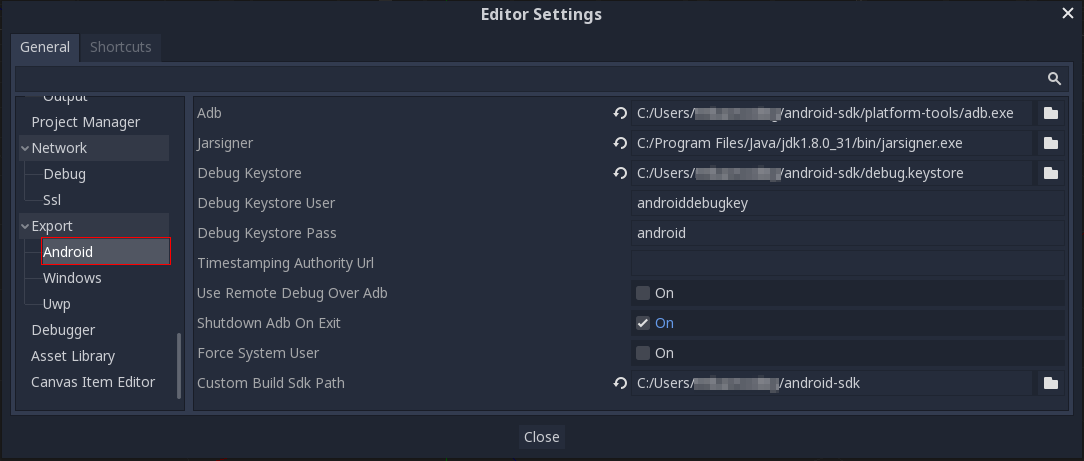
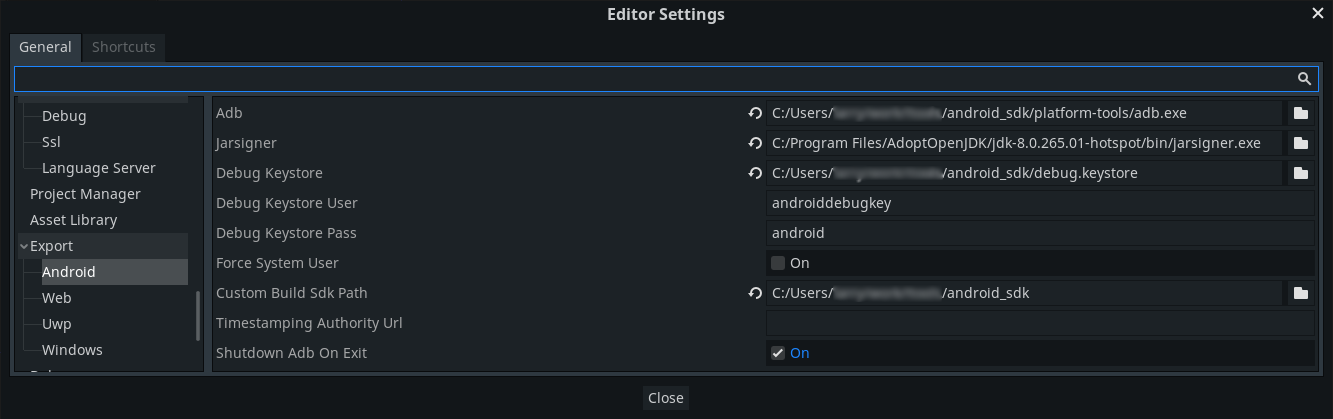
Update and simplify android custom build instructions (#4001)
* fix instructions for .gdignore file in android folder

* add instructiond for JAVA_HOME variable on Windows

* simplify sdk installation and add warning for windows zip extraction

* fix command to navigate to andorid_sdk path

* update android editor settings screenshot for new Jarsigner path

* remove obsolete instructions for .gdignore file

diff --git a/getting_started/workflow/export/android_custom_build.rst b/getting_started/workflow/export/android_custom_build.rst
@@ -28,9 +28,8 @@ Go to the Project menu, and install the *Custom Build* template:
 Make sure export templates are downloaded. If not, this menu will help you
 download them.
 
-This will create an Gradle-based Android project in ``res://android/build`` and
-place a ``.gdignore`` file in ``res://android`` so the Godot filesystem ignores
-this folder. Editing these files is not needed unless you want to :ref:`create
+A Gradle-based Android project will be created under ``res://android/build``.
+Editing these files is not needed unless you want to :ref:`create
 your own add-ons<doc_android_plugin>`, or you really need to modify the project.
 
 Install the Android SDK (command-line version)
@@ -50,6 +49,10 @@ You need to install a Java SDK (**not** just the runtime or JRE).
 `OpenJDK 8 <https://adoptopenjdk.net/index.html>`__ is required, newer
 versions won't work.
 
+On Windows, make sure that you enable "Set ``JAVA_HOME`` variable" in the *Custom Setup* view
+of the installer. You have to restart Godot after this, otherwise Godot can't
+find the ``JAVA_HOME`` variable.
+
 Download the command-line tools
 ^^^^^^^^^^^^^^^^^^^^^^^^^^^^^^^
 
@@ -62,12 +65,8 @@ To save disk space, you don't want the full IDE, so don't download it.
     doing the same using Android Studio.
 
 Look on that page for the *Command line tools only* section. Currently, they are listed under
-*Download Options*. Scroll down a bit until you see them.
-
-Download the ZIP file for your platform, there will be a single ``tools``
-folder inside:
-
-.. image:: img/custom_build_zip.png
+*Download Options*. Scroll down a bit until you see them and download the ZIP file for
+your platform.
 
 This may appear a little confusing, but be sure to follow these instructions
 carefully:
@@ -77,16 +76,22 @@ an empty directory). On Windows, the following path is usually good enough:
 
 .. code-block:: none
 
-  C:\users\<yourusername>\Documents\android-sdk
-  
+  C:\users\<yourusername>\android-sdk
+
+Create an empty folder named ``cmdline-tools`` inside of the ``android-sdk`` folder.
+Then unzip the Android SDK ZIP file into the ``android-sdk/cmdline-tools`` folder.
+
 .. note::
 
-    If you already have an android-sdk folder, normally located in ``%LOCALAPPDATA%\Android\Sdk``, 
-    then use this folder instead of creating an empty ``android-sdk`` folder. 
+    If you're on Windows, you must not extract the ZIP archive with the default
+    Windows extractor (e.g. Windows Explorer). You have to use another tool
+    like 7zip, WinRAR or the Powershell ``Expand-Archive`` command. If you
+    extract the archive with the default Windows extractor, the files are not
+    extracted correctly and you will run into errors later on!
 
-Unzip the Android SDK ZIP file into the ``android-sdk`` folder. This folder should 
-now contain the unzipped folder called ``tools``. Rename ``tools`` to ``latest``. 
-Finally, create an empty folder named ``cmdline-tools`` and place ``latest`` into it. 
+The ``cmdline-tools`` folder should now contain the unzipped folder called ``tools``.
+Finally, rename the ``tools`` folder to ``latest``.
+
 Your final directory structure should look like this :
 
 .. code-block:: none
@@ -95,7 +100,7 @@ Your final directory structure should look like this :
   android-sdk/cmdline-tools/
   android-sdk/cmdline-tools/latest
   android-sdk/cmdline-tools/latest/allTheOtherFiles
-  
+
 We need to setup the directory structure this way for the sdkmanager (inside the bin folder) to work.
 
 Accepting the licenses
@@ -136,20 +141,21 @@ keystore (this is needed to build). Go up two folders by writing:
 
 .. code-block:: shell
 
-    cd ..\..
+    cd ..\..\..
 
 (or open a new shell in the ``android-sdk`` folder).
 
-And you need to input the following line (on Linux and macOS, this should work
-out of the box, for Windows there are further instructions below):
+And you need to input the following line (This should work out of the box.
+However, if you haven't set the ``JAVA_HOME`` variable on Windows,
+there are further instructions below):
 
 .. code-block:: shell
 
     keytool -keyalg RSA -genkeypair -alias androiddebugkey -keypass android -keystore debug.keystore -storepass android -dname "CN=Android Debug,O=Android,C=US" -validity 9999
 
-On Windows, the full path to Java should be provided. You need to add ``&`` at
-the beginning of the line if you use PowerShell; it's not needed for the regular
-``cmd.exe`` console.
+On Windows, if you did not install the ``JAVA_HOME`` variable, the full path to Java
+should be provided. You need to add ``&`` at the beginning of the line if you use
+PowerShell; it's not needed for the regular ``cmd.exe`` console.
 
 To make it clearer, here is an capture of a line that works on PowerShell (by
 adding ``&`` and the full Java path before ``keytool.exe``). Again, keep in mind that you
